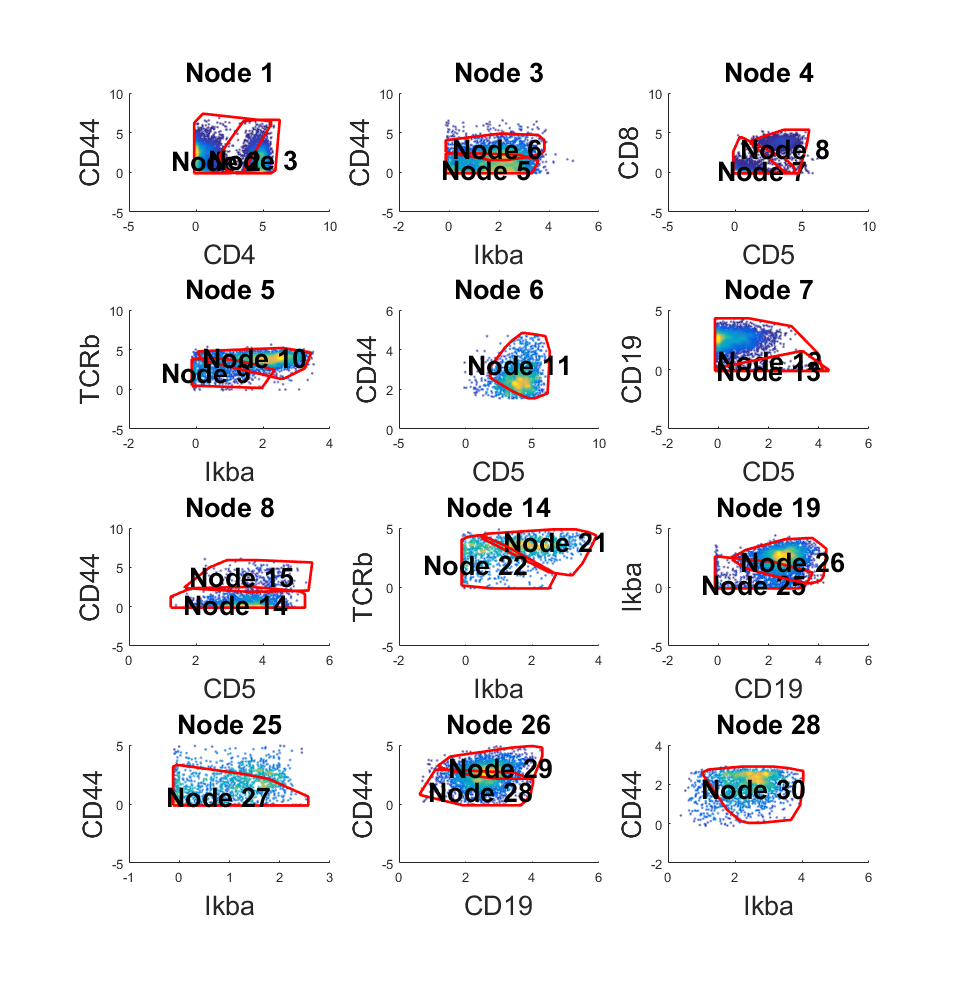
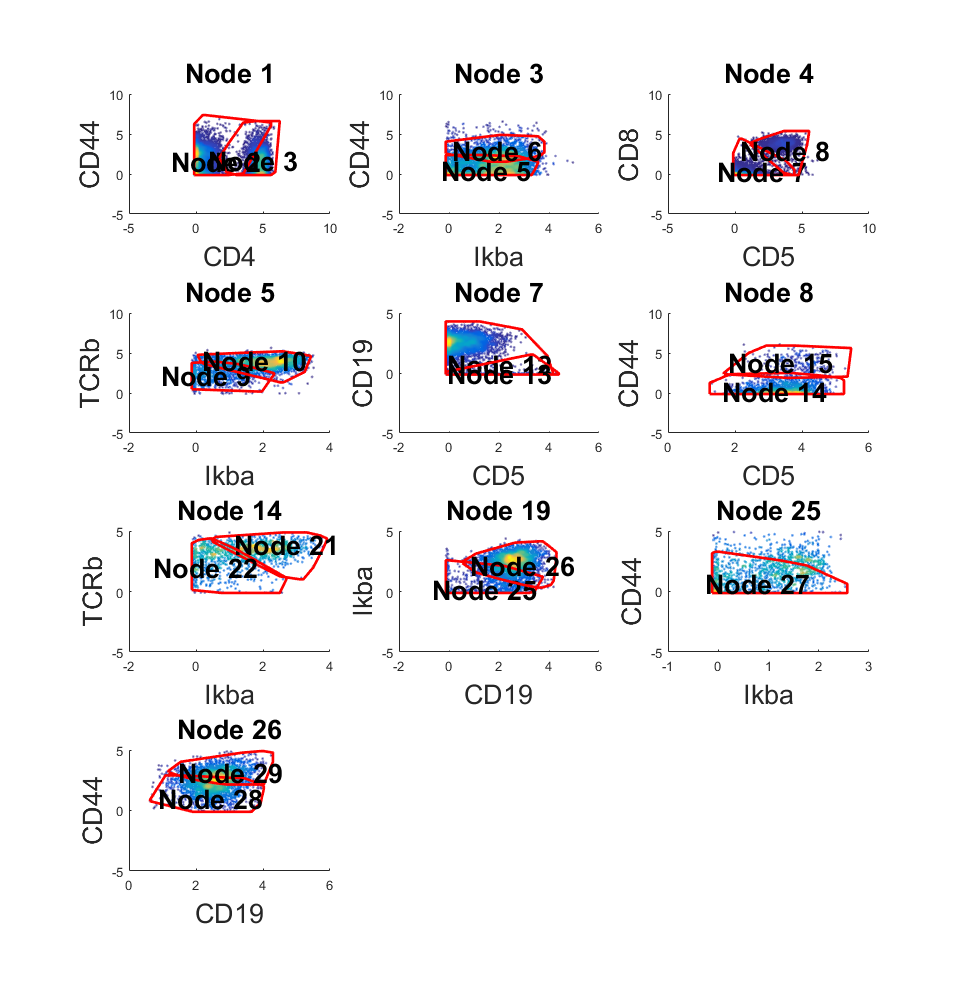
update language

diff --git a/index.html b/index.html
@@ -6,7 +6,7 @@
    <!--
 This HTML was auto-generated from MATLAB code.
 To make changes, update the MATLAB code and republish this document.
-      --><title>Generating 2D Gating Hierarhcy from Clustered Cytometry Data</title><meta name="generator" content="MATLAB 9.1"><link rel="schema.DC" href="http://purl.org/dc/elements/1.1/"><meta name="DC.date" content="2017-09-20"><meta name="DC.source" content="demo.m"><style type="text/css">
+      --><title>Generating 2D Gating Hierarhcy from Clustered Cytometry Data</title><meta name="generator" content="MATLAB 9.1"><link rel="schema.DC" href="http://purl.org/dc/elements/1.1/"><meta name="DC.date" content="2017-09-21"><meta name="DC.source" content="demo.m"><style type="text/css">
 html,body,div,span,applet,object,iframe,h1,h2,h3,h4,h5,h6,p,blockquote,pre,a,abbr,acronym,address,big,cite,code,del,dfn,em,font,img,ins,kbd,q,s,samp,small,strike,strong,sub,sup,tt,var,b,u,i,center,dl,dt,dd,ol,ul,li,fieldset,form,label,legend,table,caption,tbody,tfoot,thead,tr,th,td{margin:0;padding:0;border:0;outline:0;font-size:100%;vertical-align:baseline;background:transparent}body{line-height:1}ol,ul{list-style:none}blockquote,q{quotes:none}blockquote:before,blockquote:after,q:before,q:after{content:'';content:none}:focus{outine:0}ins{text-decoration:none}del{text-decoration:line-through}table{border-collapse:collapse;border-spacing:0}
 
 html { min-height:100%; margin-bottom:1px; }
@@ -66,7 +66,7 @@ table td { padding:7px 5px; text-align:left; vertical-align:top; border:1px soli
 
 
 
-  </style></head><body><div class="content"><h1>Generating 2D Gating Hierarhcy from Clustered Cytometry Data</h1><!--introduction--><p>Our algorithm cluster-to-gates(C2G) can visualize a clustered cytometry data in 2D gating hierarchy. The overall input to C2G are two variables: "data" and "label". "data" is a N-by-M matrix where N is the number of cells and M is the number of markers. "label" is a N-by-1 matrix and this matrix represent which cluster each cell belongs to (0 for ungated cells).  In this page, we will demonstrate how to use C2G to generate gating hierarchy on a simulated data and on a CyTOF dataset that are manually gated. The software and testing data can be downloaded <a href="https://github.com/xysheep/C2G/releases">here</a> .</p><!--/introduction--><h2>Contents</h2><div><ul><li><a href="#1">Initialization and load the simulated data</a></li><li><a href="#2">Visualize the simulated data in 3D</a></li><li><a href="#3">Run the analysis on the simulated data</a></li><li><a href="#4">Load a moderate-sized CyTOF dataset with ~10,1000 cells</a></li><li><a href="#5">Generate gating hierarchy for manually gated populations</a></li><li><a href="#6">Generate gating hierarchy for K-means defined populations (K=10)</a></li><li><a href="#7">Apply C2G to large CyTOF dataset with ~140,000 cells</a></li><li><a href="#8">Reference</a></li></ul></div><h2 id="1">Initialization and load the simulated data</h2><p>This simulated data set contain 20000 cells, which consist of 5 populations.Two of the populations are addressed as known and labeled as 1 and 2. The cells in other populations are labeled 0 which means "ungated". A visualization of the original data is also shown in the following sections.</p><pre class="codeinput">addpath(<span class="string">'src'</span>)
+  </style></head><body><div class="content"><h1>Generating 2D Gating Hierarhcy from Clustered Cytometry Data</h1><!--introduction--><p>Our algorithm cluster-to-gates(C2G) can visualize a clustered cytometry data in 2D gating hierarchy. The overall input to C2G are two variables: "data" and "label". "data" is a N-by-M matrix where N is the number of cells and M is the number of markers. "label" is a N-by-1 matrix and this matrix represent which cluster each cell belongs to (0 for ungated cells).  In this page, we will demonstrate how to use C2G to generate gating hierarchy on a simulated data and on a CyTOF dataset that are manually gated. The software and testing data can be downloaded <a href="https://github.com/xysheep/C2G/releases">here</a> .</p><!--/introduction--><h2>Contents</h2><div><ul><li><a href="#1">Initialization and load the simulated data</a></li><li><a href="#2">Visualize the simulated data and pre-clustered simulated data in 3D</a></li><li><a href="#3">Run the analysis on the simulated data</a></li><li><a href="#4">Load a moderate-sized CyTOF dataset with ~10,000 cells</a></li><li><a href="#5">Generate gating hierarchy for manually gated populations</a></li><li><a href="#6">Generate gating hierarchy for K-means defined populations (K=10)</a></li><li><a href="#7">Apply C2G to large CyTOF dataset with ~140,000 cells</a></li><li><a href="#8">Reference</a></li></ul></div><h2 id="1">Initialization and load the simulated data</h2><p>This simulated data set contains 20000 cells, which consists of 5 populations.Two of the populations are considered as target and labeled as 1 and 2. The cells in other populations are labeled 0 which means "unlabeled". A visualization of the original data is also shown in the following sections.</p><pre class="codeinput">addpath(<span class="string">'src'</span>)
 addpath(<span class="string">'libs'</span>)
 load(<span class="string">'testdata/simulated.mat'</span>,<span class="string">'data'</span>,<span class="string">'label'</span>);
 markernames ={<span class="string">'Marker 1'</span>,<span class="string">'Marker 2'</span>,<span class="string">'Marker 3'</span>};
@@ -74,25 +74,23 @@ fprintf(<span class="string">'Size of "data" is %d-by-%d\n'</span>,size(data));
 fprintf(<span class="string">'Size of "label" is %d-by-%d\n'</span>,size(label));
 </pre><pre class="codeoutput">Size of "data" is 20000-by-3
 Size of "label" is 20000-by-1
-</pre><h2 id="2">Visualize the simulated data in 3D</h2><p>In real application, this section is not necessay.</p><pre class="codeinput">col = [0.8 0.8 0.8;hsv(length(unique(label))-1)];
+</pre><h2 id="2">Visualize the simulated data and pre-clustered simulated data in 3D</h2><p>In real application, this section is not necessay.</p><pre class="codeinput">col = [0.8 0.8 0.8;hsv(length(unique(label))-1)];
 figure(<span class="string">'Position'</span>,[680 478 560 420]);
 scatter3(data(:,1),data(:,2),data(:,3),1,col(label+1,:));
 xlabel(<span class="string">'Marker 1'</span>)
 ylabel(<span class="string">'Marker 2'</span>)
 zlabel(<span class="string">'Marker 3'</span>)
 axis([-5 15 -5 15 -5 15]);
-</pre><img vspace="5" hspace="5" src="demo_01.png" alt=""> <h2 id="3">Run the analysis on the simulated data</h2><p>This section perform the analysis on the simulated data. If your data have no "ungated" cells, preclustered step can be skipped. If you skip precluster, the second and third parameter in function "C2G" should be the same. Compute local density step is also optional, it can decrease time cost in computing density when you want to try different parameter setting in "C2G". If you skipped it, no need to input the fourth parameter in "C2G".</p><pre class="codeinput"><span class="comment">% Precluster the simulated data</span>
+</pre><img vspace="5" hspace="5" src="demo_01.png" alt=""> <h2 id="3">Run the analysis on the simulated data</h2><p>This section performs the analysis on the simulated data. If your data has no "unlabeled" cells, precluster step can be skipped. If you skip precluster, the second and third parameter in function "C2G" should be the same.</p><pre class="codeinput"><span class="comment">% Precluster the simulated data</span>
 rng(9464);
 preclustered_label = cluster_ungated(data,label);
 
 <span class="comment">% Call main part of the program and return a object m that store the</span>
-<span class="comment">% results. The option "ignore_ratio" mean percentage of low density cells</span>
-<span class="comment">% ignored when compute overlap between different populations</span>
-
+<span class="comment">% results.</span>
 m = C2G(data,preclustered_label,label,<span class="string">'markernames'</span>,markernames);
 <span class="comment">% Draw the obtained gating hierarchy</span>
-<span class="comment">% Show statistics</span>
 m.view_gates(data,markernames,<span class="string">'n_lines'</span>,1,<span class="string">'onepanel'</span>,true);
+<span class="comment">% Show statistics</span>
 outtable = m.show_f_score(label);
 </pre><pre class="codeoutput">Step:  0	[100%]
 [Selected] marker pair Marker 2 and Marker 3
@@ -112,7 +110,7 @@ Population	Gate	    TP	    FP	    FN	F-score
          1	   3	  5411	    18	     0	  0.998
          2	   4	  9166	     1	     0	  1.000
 Normalized Mutual Information = 0.996
-</pre><img vspace="5" hspace="5" src="demo_02.png" alt=""> <h2 id="4">Load a moderate-sized CyTOF dataset with ~10,1000 cells</h2><p>This is a dataset about T cell signaling (Krishnaswamy et al, Science, 2014). It can be downloaded from <a href="https://www.c2b2.columbia.edu/danapeerlab/html/dremi-data.html">here</a>. This section will read multiple fcs files. Each fcs file correspond to one cell population. C2G will automatically generate cell labels based on fsc files. FCS files are store in the "testdata" folder. "CD4_Effmen.fcs", "CD4_naive.fcs", and "CD8_naive.fcs" are cells of target populations and "ctr.fcs" contain all cells. In this example, we only use surface protein markers.</p><pre class="codeinput">clear
+</pre><img vspace="5" hspace="5" src="demo_02.png" alt=""> <h2 id="4">Load a moderate-sized CyTOF dataset with ~10,000 cells</h2><p>This is a dataset about T cell signaling (Krishnaswamy et al, Science, 2014). It can be downloaded from <a href="https://www.c2b2.columbia.edu/danapeerlab/html/dremi-data.html">here</a>. This section will load multiple fcs files. Each fcs file correspond to one cell population manually gated by the authors. C2G will automatically generate cell labels based on fsc files. FCS files are store in the "testdata" folder. "CD4_Effmen.fcs", "CD4_naive.fcs", and "CD8_naive.fcs" are cells of target populations (manually defined) and "ctr.fcs" contain all cells. In this example, we only use surface protein markers.</p><pre class="codeinput">clear
 close <span class="string">all</span>
 addpath(<span class="string">'src'</span>)
 addpath(<span class="string">'libs'</span>)
@@ -123,7 +121,7 @@ surface_idx = [3 4 6 8 9 11 12 13 22 24 25 27];
 data = ori_data(:,surface_idx);
 markers = ori_markers(surface_idx);
 n_markers = length(markers);
-</pre><h2 id="5">Generate gating hierarchy for manually gated populations</h2><pre class="codeinput"><span class="comment">% Precluster the ungated cells</span>
+</pre><h2 id="5">Generate gating hierarchy for manually gated populations</h2><p>In this section, we'll use the data loaded from previous section and treat the three manually defined cell populations as target populations. Here, number of "unlabeled" cells is around two-fold of cells in target populations. The results (the table below) show that C2G can capture manually defined populations at very high accuracy.</p><pre class="codeinput"><span class="comment">% Precluster the ungated cells</span>
 rng(9464)
 label = cluster_ungated(data,ori_l);
 <span class="comment">% Perform the anlysis</span>
@@ -137,13 +135,13 @@ Population	Gate	    TP	    FP	    FN	F-score
          2	   8	  2267	    30	    78	  0.977
          3	   6	   488	    46	    37	  0.922
 Normalized Mutual Information = 0.893
-</pre><img vspace="5" hspace="5" src="demo_03.png" alt=""> <h2 id="6">Generate gating hierarchy for K-means defined populations (K=10)</h2><pre class="codeinput">rng(9464)
+</pre><img vspace="5" hspace="5" src="demo_03.png" alt=""> <h2 id="6">Generate gating hierarchy for K-means defined populations (K=10)</h2><p>In this section, we will use the same CyTOF data used in previous section. The cell labels are defined by k-means algorithm where k equal to 10. All of the 10 clusters will be considered as target populations, in other words,there're no "unlabeled" cells.</p><pre class="codeinput">rng(9464)
 km_l = kmeans(data,10);
 new_km_l = km_l; <span class="comment">% Since all populiations is known, no need to pre-cluster</span>
 <span class="comment">% Perform the anlysis</span>
 m_km = C2G(data,km_l,km_l,<span class="string">'markernames'</span>,markers);
 <span class="comment">% Visualize the results</span>
-m_km.view_gates(data,markers,<span class="string">'n_lines'</span>,4,<span class="string">'ignore_small'</span>,200);
+m_km.view_gates(data,markers,<span class="string">'n_lines'</span>,4,<span class="string">'ignore_small'</span>,300);
 m_km.show_f_score(km_l);
 </pre><pre class="codeoutput">
 Population	Gate	    TP	    FP	    FN	F-score
@@ -158,7 +156,7 @@ Population	Gate	    TP	    FP	    FN	F-score
          9	  22	   609	    38	    46	  0.935
         10	  23	   192	    15	    26	  0.904
 Normalized Mutual Information = 0.780
-</pre><img vspace="5" hspace="5" src="demo_04.png" alt=""> <img vspace="5" hspace="5" src="demo_05.png" alt=""> <h2 id="7">Apply C2G to large CyTOF dataset with ~140,000 cells</h2><p>This is a larger CyTOF dataset with 140k cells and 21 protein markers (Spitzer, Matthew H., et al, Science, 2015 ). This data can be download from <a href="https://community.cytobank.org/cytobank/experiments/60068">here</a> This dataset is clustered by k-means where k equal to 10. This part will take around 10 minutes on a desktop.</p><pre class="codeinput">[ori_data, marker] = readfcs_v2(<span class="string">'testdata/bigdata/TIN_BLD1_Untreated_Day3.fcs'</span>);
+</pre><img vspace="5" hspace="5" src="demo_04.png" alt=""> <img vspace="5" hspace="5" src="demo_05.png" alt=""> <h2 id="7">Apply C2G to large CyTOF dataset with ~140,000 cells</h2><p>This is a larger CyTOF dataset with 140k cells and 21 protein markers (Spitzer, Matthew H., et al, Science, 2015 ). This data can be download for free from <a href="https://community.cytobank.org/cytobank/experiments/60068">here</a>. (The dataset is hosted on Cytobank and you need to register to download it) This dataset is clustered by k-means where k equal to 10. All of the 10 k-means defined clusters are treated as target populations. This part will take around 10 minutes on a desktop.</p><pre class="codeinput">[ori_data, marker] = readfcs_v2(<span class="string">'testdata/bigdata/TIN_BLD1_Untreated_Day3.fcs'</span>);
 <span class="comment">% Transform the CyTOF</span>
 data = flow_arcsinh(ori_data,5);
 <span class="comment">% Select protein markers</span>
@@ -186,7 +184,7 @@ Population	Gate	    TP	    FP	    FN	F-score
          9	  28	  6993	   460	   398	  0.942
         10	  56	  7804	   218	   726	  0.943
 Normalized Mutual Information = 0.859
-</pre><img vspace="5" hspace="5" src="demo_06.png" alt=""><img vspace="5" hspace="5" src="demo_08.png" alt=""> <h2 id="8">Reference</h2><p>Krishnaswamy, Smita, Matthew H. Spitzer, Michael Mingueneau, Sean C. Bendall, Oren Litvin, Erica Stone, Dana Pe&#8217;er, and Garry P. Nolan. "Conditional density-based analysis of T cell signaling in single-cell data." <i>Science</i> 346, no. 6213 (2014): 1250689.</p><p>Spitzer, Matthew H., Pier Federico Gherardini, Gabriela K. Fragiadakis, Nupur Bhattacharya, Robert T. Yuan, Andrew N. Hotson, Rachel Finck et al. "An interactive reference framework for modeling a dynamic immune system." <i>Science</i> 349, no. 6244 (2015): 1259425.</p><p class="footer"><br><a href="http://www.mathworks.com/products/matlab/">Published with MATLAB&reg; R2016b</a><br></p></div><!--
+</pre><img vspace="5" hspace="5" src="demo_06.png" alt=""> <img vspace="5" hspace="5" src="demo_07.png" alt=""> <h2 id="8">Reference</h2><p>Krishnaswamy, Smita, Matthew H. Spitzer, Michael Mingueneau, Sean C. Bendall, Oren Litvin, Erica Stone, Dana Pe&#8217;er, and Garry P. Nolan. "Conditional density-based analysis of T cell signaling in single-cell data." <i>Science</i> 346, no. 6213 (2014): 1250689.</p><p>Spitzer, Matthew H., Pier Federico Gherardini, Gabriela K. Fragiadakis, Nupur Bhattacharya, Robert T. Yuan, Andrew N. Hotson, Rachel Finck et al. "An interactive reference framework for modeling a dynamic immune system." <i>Science</i> 349, no. 6244 (2015): 1259425.</p><p class="footer"><br><a href="http://www.mathworks.com/products/matlab/">Published with MATLAB&reg; R2016b</a><br></p></div><!--
 ##### SOURCE BEGIN #####
 %% Generating 2D Gating Hierarhcy from Clustered Cytometry Data
 % Our algorithm cluster-to-gates(C2G) can visualize a clustered cytometry
@@ -200,10 +198,10 @@ Normalized Mutual Information = 0.859
 % <https://github.com/xysheep/C2G/releases here> .
 
 %% Initialization and load the simulated data
-% This simulated data set contain 20000 cells, which consist of 5
-% populations.Two of the populations are addressed as known and labeled as
+% This simulated data set contains 20000 cells, which consists of 5
+% populations.Two of the populations are considered as target and labeled as
 % 1 and 2. The cells in other populations are labeled 0 which means
-% "ungated". A visualization of the original data is also shown in the
+% "unlabeled". A visualization of the original data is also shown in the
 % following sections.
 addpath('src')
 addpath('libs')
@@ -224,37 +222,32 @@ axis([-5 15 -5 15 -5 15]);
 
 %% Run the analysis on the simulated data
 % This section perform the analysis on the simulated data. If your data
-% have no "ungated" cells, preclustered step can be skipped. If you skip
+% have no "unlabeled" cells, precluster step can be skipped. If you skip
 % precluster, the second and third parameter in function "C2G" should be
-% the same. Compute local density step is also optional, it can decrease
-% time cost in computing density when you want to try different parameter
-% setting in "C2G". If you skipped it, no need to input the fourth
-% parameter in "C2G".
+% the same. 
 
 % Precluster the simulated data
 rng(9464);
 preclustered_label = cluster_ungated(data,label);
 
 % Call main part of the program and return a object m that store the
-% results. The option "ignore_ratio" mean percentage of low density cells
-% ignored when compute overlap between different populations
-
+% results. 
 m = C2G(data,preclustered_label,label,'markernames',markernames); 
 % Draw the obtained gating hierarchy
-% Show statistics
 m.view_gates(data,markernames,'n_lines',1,'onepanel',true);
+% Show statistics
 outtable = m.show_f_score(label); 
 
-%% Load a moderate-sized CyTOF dataset with ~10,1000 cells
+%% Load a moderate-sized CyTOF dataset with ~10,000 cells
 % This is a dataset about T cell signaling (Krishnaswamy et al, Science,
 % 2014). It can be downloaded from
 % <https://www.c2b2.columbia.edu/danapeerlab/html/dremi-data.html here>.
 % This section will read multiple fcs files. Each fcs file correspond to
-% one cell population. C2G will automatically generate cell labels based on
-% fsc files. FCS files are store in the "testdata" folder.
-% "CD4_Effmen.fcs", "CD4_naive.fcs", and "CD8_naive.fcs" are cells of
-% target populations and "ctr.fcs" contain all cells. In this example, we
-% only use surface protein markers.
+% one cell population manually gated by the authors. C2G will automatically
+% generate cell labels based on fsc files. FCS files are store in the
+% "testdata" folder. "CD4_Effmen.fcs", "CD4_naive.fcs", and "CD8_naive.fcs"
+% are cells of target populations (manually defined) and "ctr.fcs" contain
+% all cells. In this example, we only use surface protein markers.
 clear
 close all
 addpath('src')
@@ -268,6 +261,10 @@ markers = ori_markers(surface_idx);
 n_markers = length(markers);
 
 %% Generate gating hierarchy for manually gated populations
+% In this section, we'll use the data loaded from previous section and
+% treat the three manually defined cell populations as target populations.
+% Here, number of "unlabeled" cells is around two-fold of cells in target
+% populations.
 
 % Precluster the ungated cells
 rng(9464)
@@ -279,21 +276,28 @@ m_ori.view_gates(data,markers,'n_lines',3,'ignore_small',0,'onepanel',true);
 m_ori.show_f_score(ori_l);
 
 %% Generate gating hierarchy for K-means defined populations (K=10)
+% In this section, we will use the same CyTOF data used in previous
+% section. The cell labels are defined by k-means algorithm where k equal
+% to 10. All of the 10 clusters will be considered as target populations,
+% in other words,there're no "unlabeled" cells.
+
 rng(9464)
 km_l = kmeans(data,10);
 new_km_l = km_l; % Since all populiations is known, no need to pre-cluster
 % Perform the anlysis
 m_km = C2G(data,km_l,km_l,'markernames',markers);
 % Visualize the results
-m_km.view_gates(data,markers,'n_lines',4,'ignore_small',200);
+m_km.view_gates(data,markers,'n_lines',4,'ignore_small',300);
 m_km.show_f_score(km_l);
 
 %% Apply C2G to large CyTOF dataset with ~140,000 cells
 % This is a larger CyTOF dataset with 140k cells and 21 protein markers
 % (Spitzer, Matthew H., et al, Science, 2015 ). This data can be download
-% from <https://community.cytobank.org/cytobank/experiments/60068 here>
-% This dataset is clustered by k-means where k equal to 10. This part will
-% take around 10 minutes on a desktop.
+% free from <https://community.cytobank.org/cytobank/experiments/60068
+% here>. (The dataset is hosted on Cytobank and you need to register to
+% download it) This dataset is clustered by k-means where k equal to 10.
+% All of the 10 k-means defined clusters are treated as target populations.
+% This part will take around 10 minutes on a desktop.
 [ori_data, marker] = readfcs_v2('testdata/bigdata/TIN_BLD1_Untreated_Day3.fcs');
 % Transform the CyTOF
 data = flow_arcsinh(ori_data,5);
